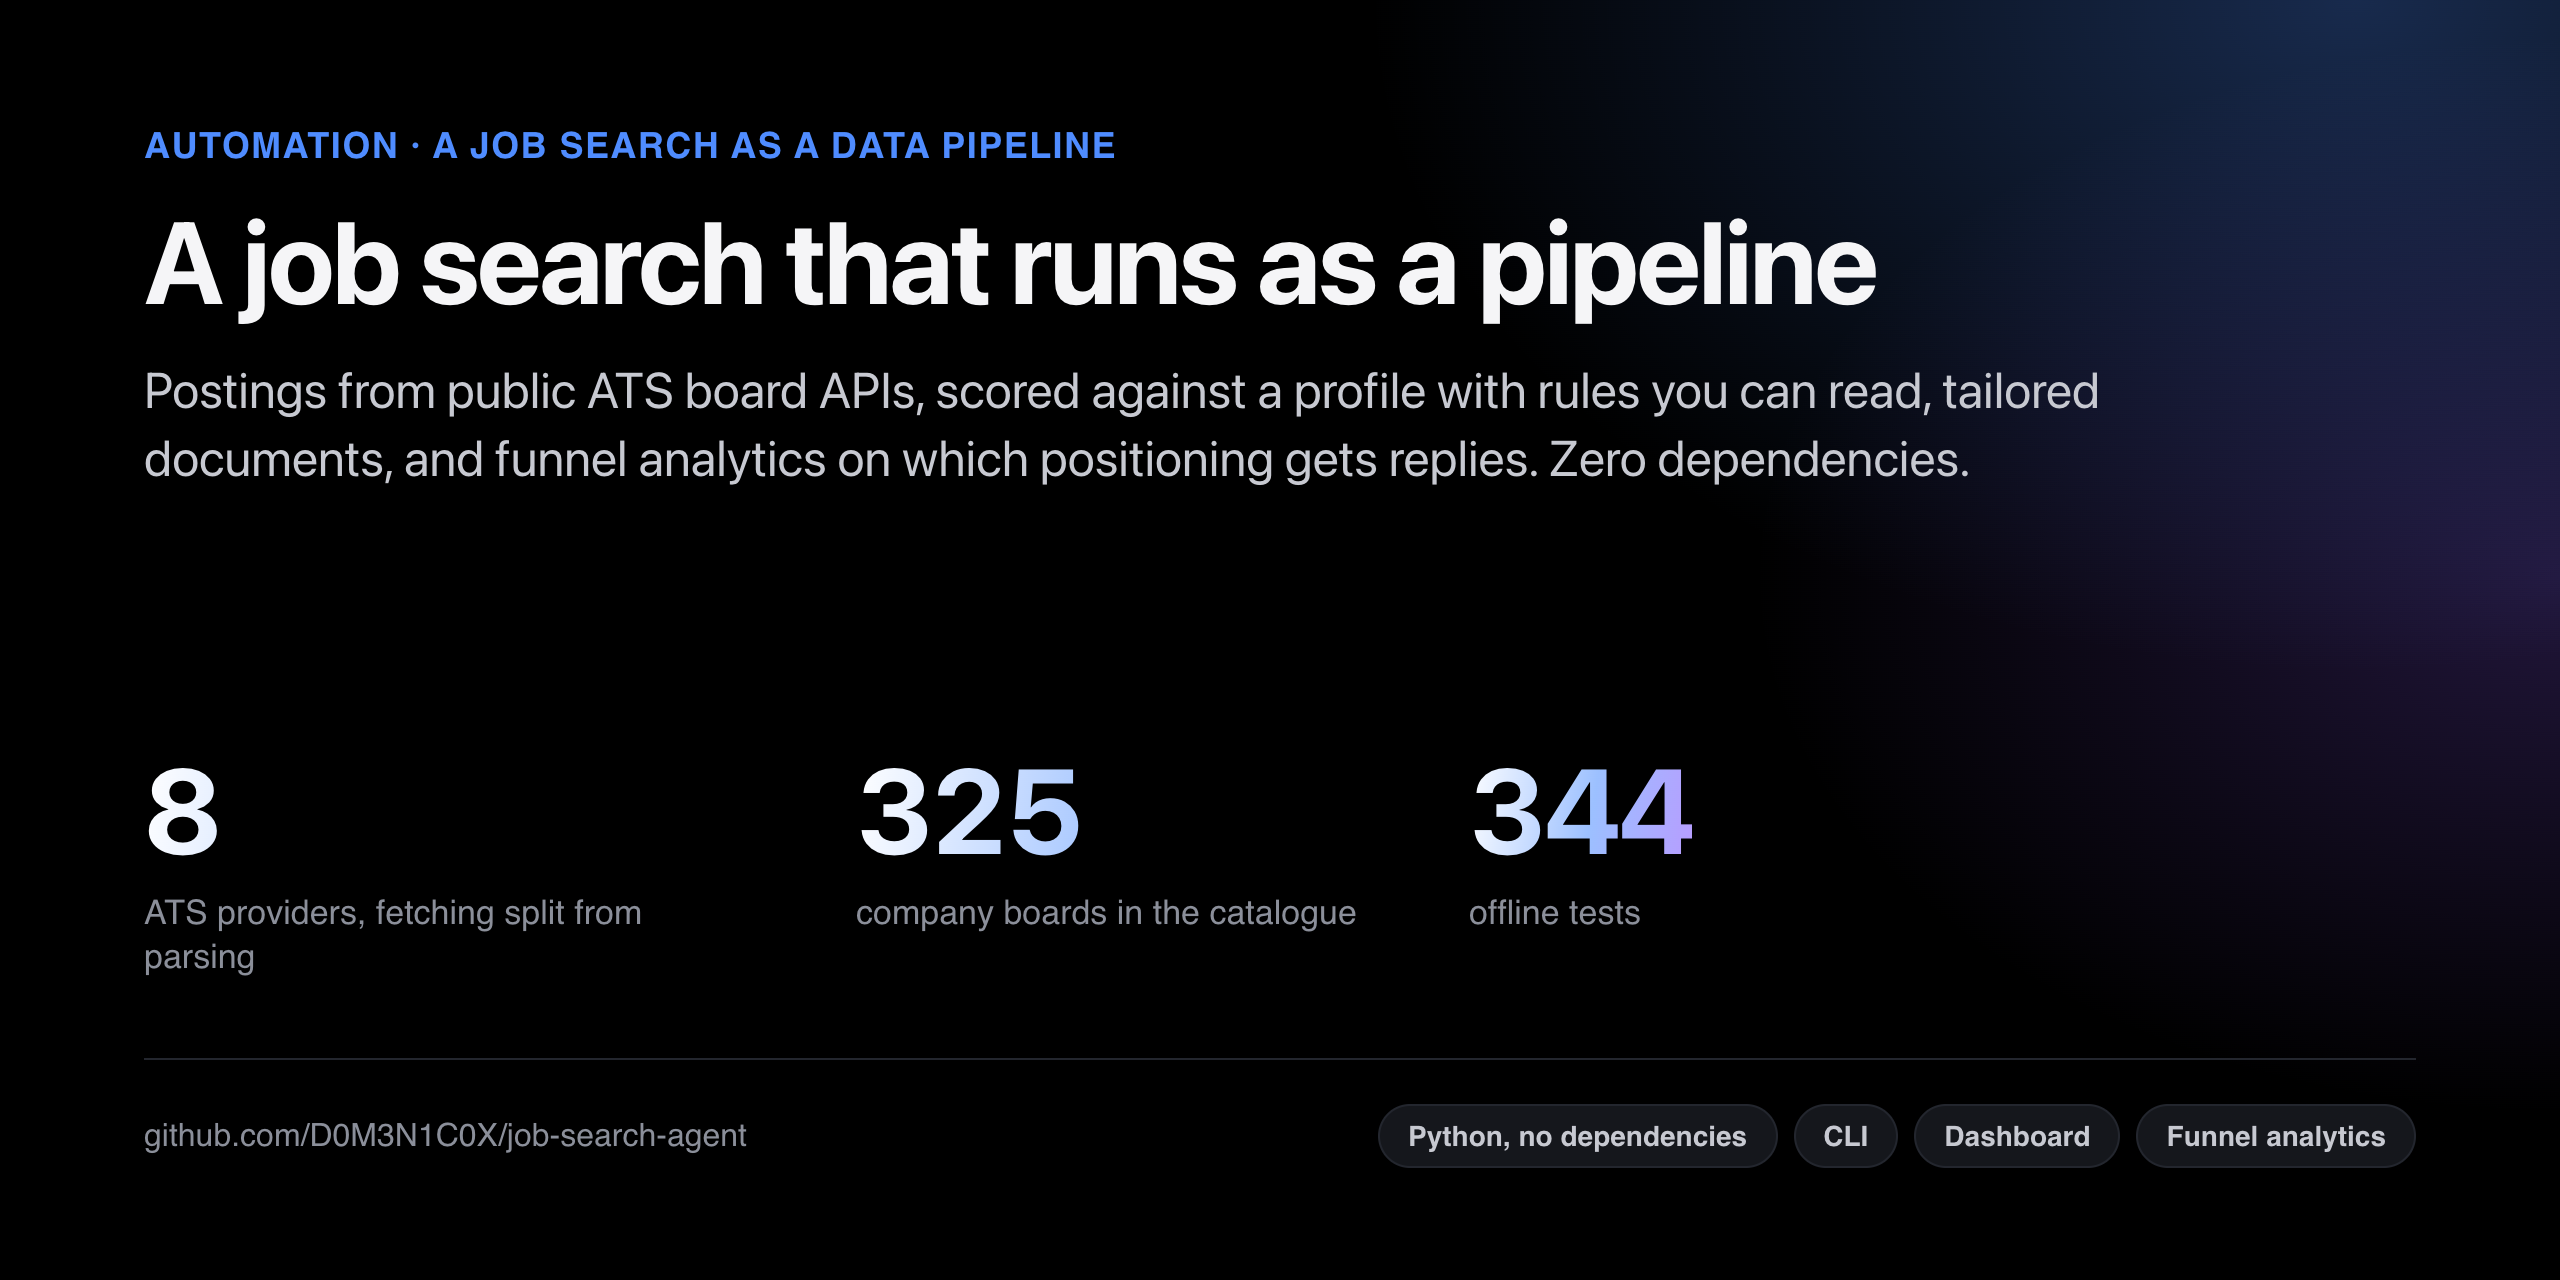
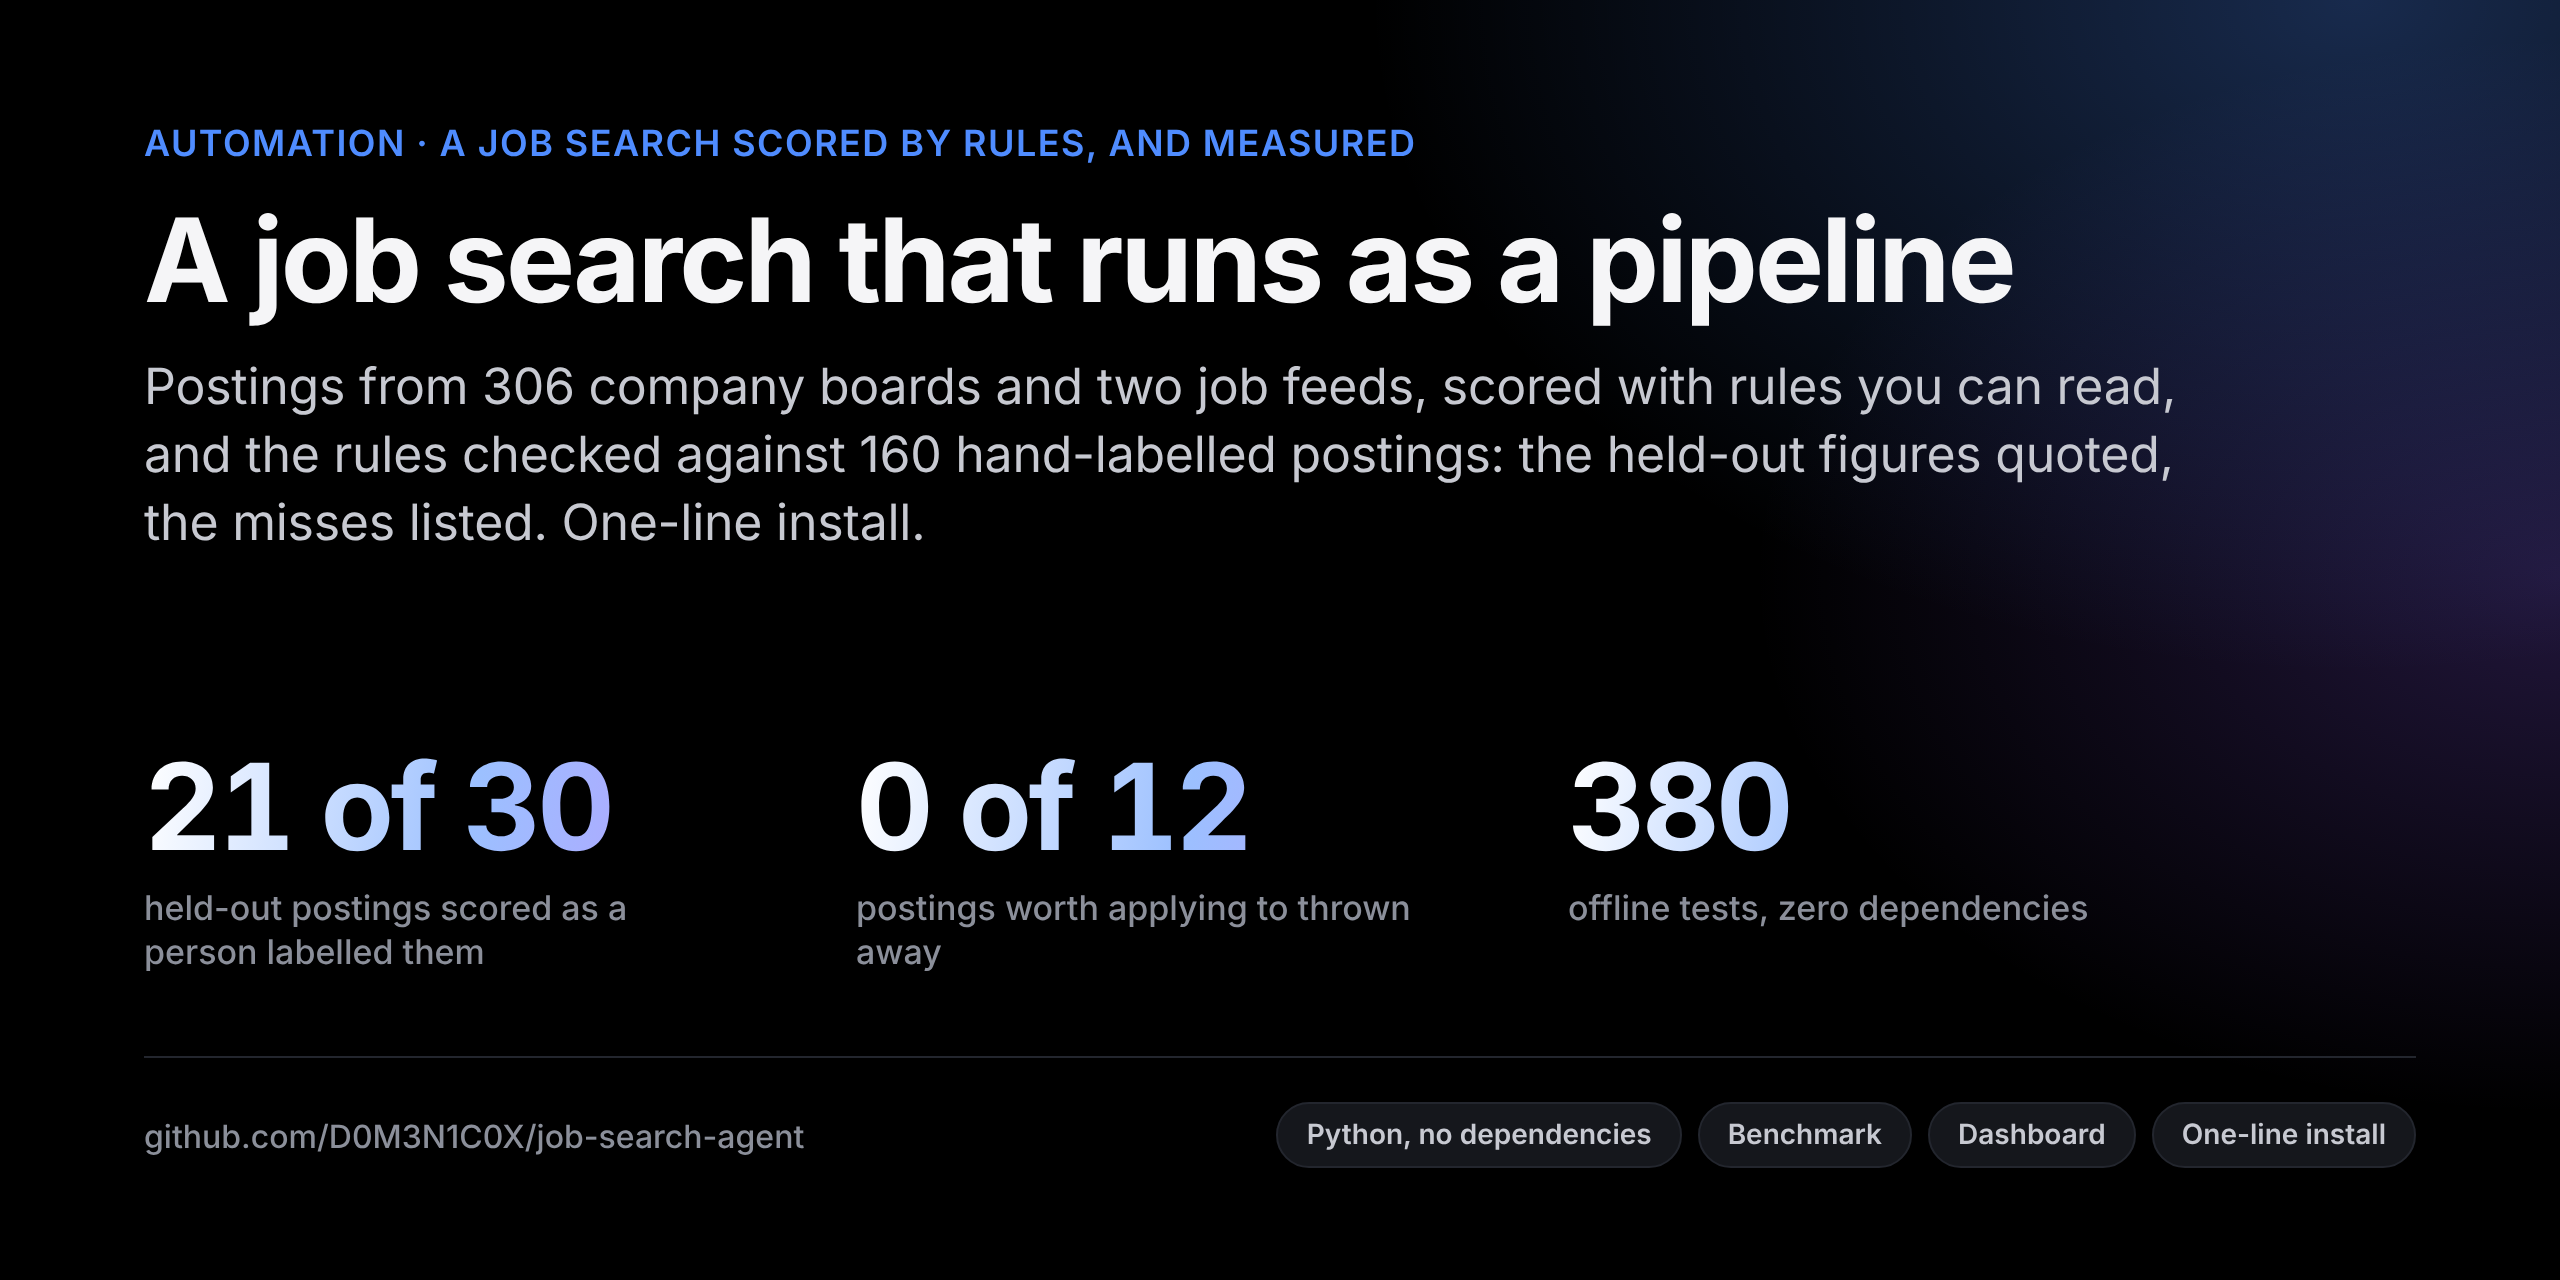
Cover with the measured figures; the dashboard as a loop in the README (#14)
The cover leads with what the benchmark measured (21 of 30 held-out
postings scored as labelled, none worth applying to thrown away, 380
tests) instead of the old catalogue counts. The README shows a short loop
recorded from the demo dashboard (light mode; dark mode keeps the still).

Claude-Session: https://claude.ai/code/session_014XHqeApKr46St4VSU6sEYL

diff --git a/README.md b/README.md
@@ -2,7 +2,7 @@
 
 <picture>
   <source media="(prefers-color-scheme: dark)" srcset="site-assets/cover-dark.png">
-  <img alt="A job search that runs as a pipeline: 8 ATS providers, 325 company boards, 344 offline tests." src="site-assets/cover-light.png">
+  <img alt="A job search that runs as a pipeline: 21 of 30 held-out postings scored as a person labelled them, none worth applying to thrown away, 380 offline tests." src="site-assets/cover-light.png">
 </picture>
 
 [![Run it](https://img.shields.io/badge/%E2%96%B6%20Run%20it-1f6feb?style=for-the-badge)](#no-terminal)
@@ -49,7 +49,7 @@ python3 -m jsa install    # from here on `jsa` works from any directory
 
 <picture>
   <source media="(prefers-color-scheme: dark)" srcset="docs/img/dashboard-dark.png">
-  <img alt="The dashboard: a triage deck of scored postings, each with a plain-language reason and the catch" src="docs/img/dashboard-light.png">
+  <img alt="The dashboard: the roles worth an hour, why one scored 94, every posting with its verdict, and the application funnel" src="docs/img/dashboard.webp">
 </picture>
 
 Then point it at your own search (the installer starts the first two for you):
